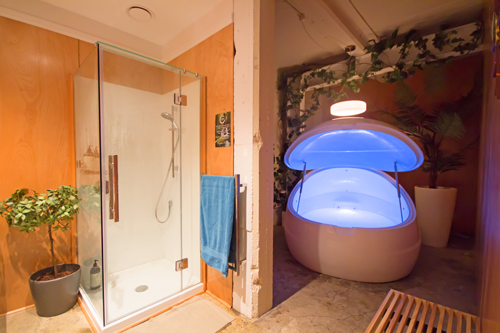
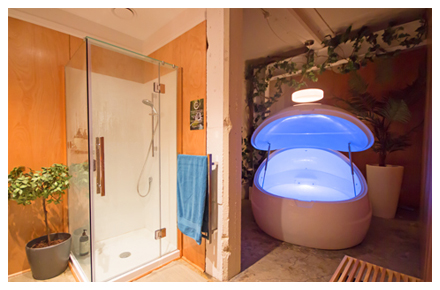
.

diff --git a/src/pages/index.html b/src/pages/index.html
@@ -64,7 +64,7 @@ subject: Welcome to Tory Urban Retreat
   <row>
     <columns small="12" large="12" bgcolor="#D1EFEF">
       <center>
-        <img style="border: 10px solid #fff;" width="440" height="290" src="../assets/img/sauna.jpg" alt="">
+        <img width="440" height="290" src="../assets/img/sauna.jpg" alt="">
       </center>
     </columns>
   </row>
